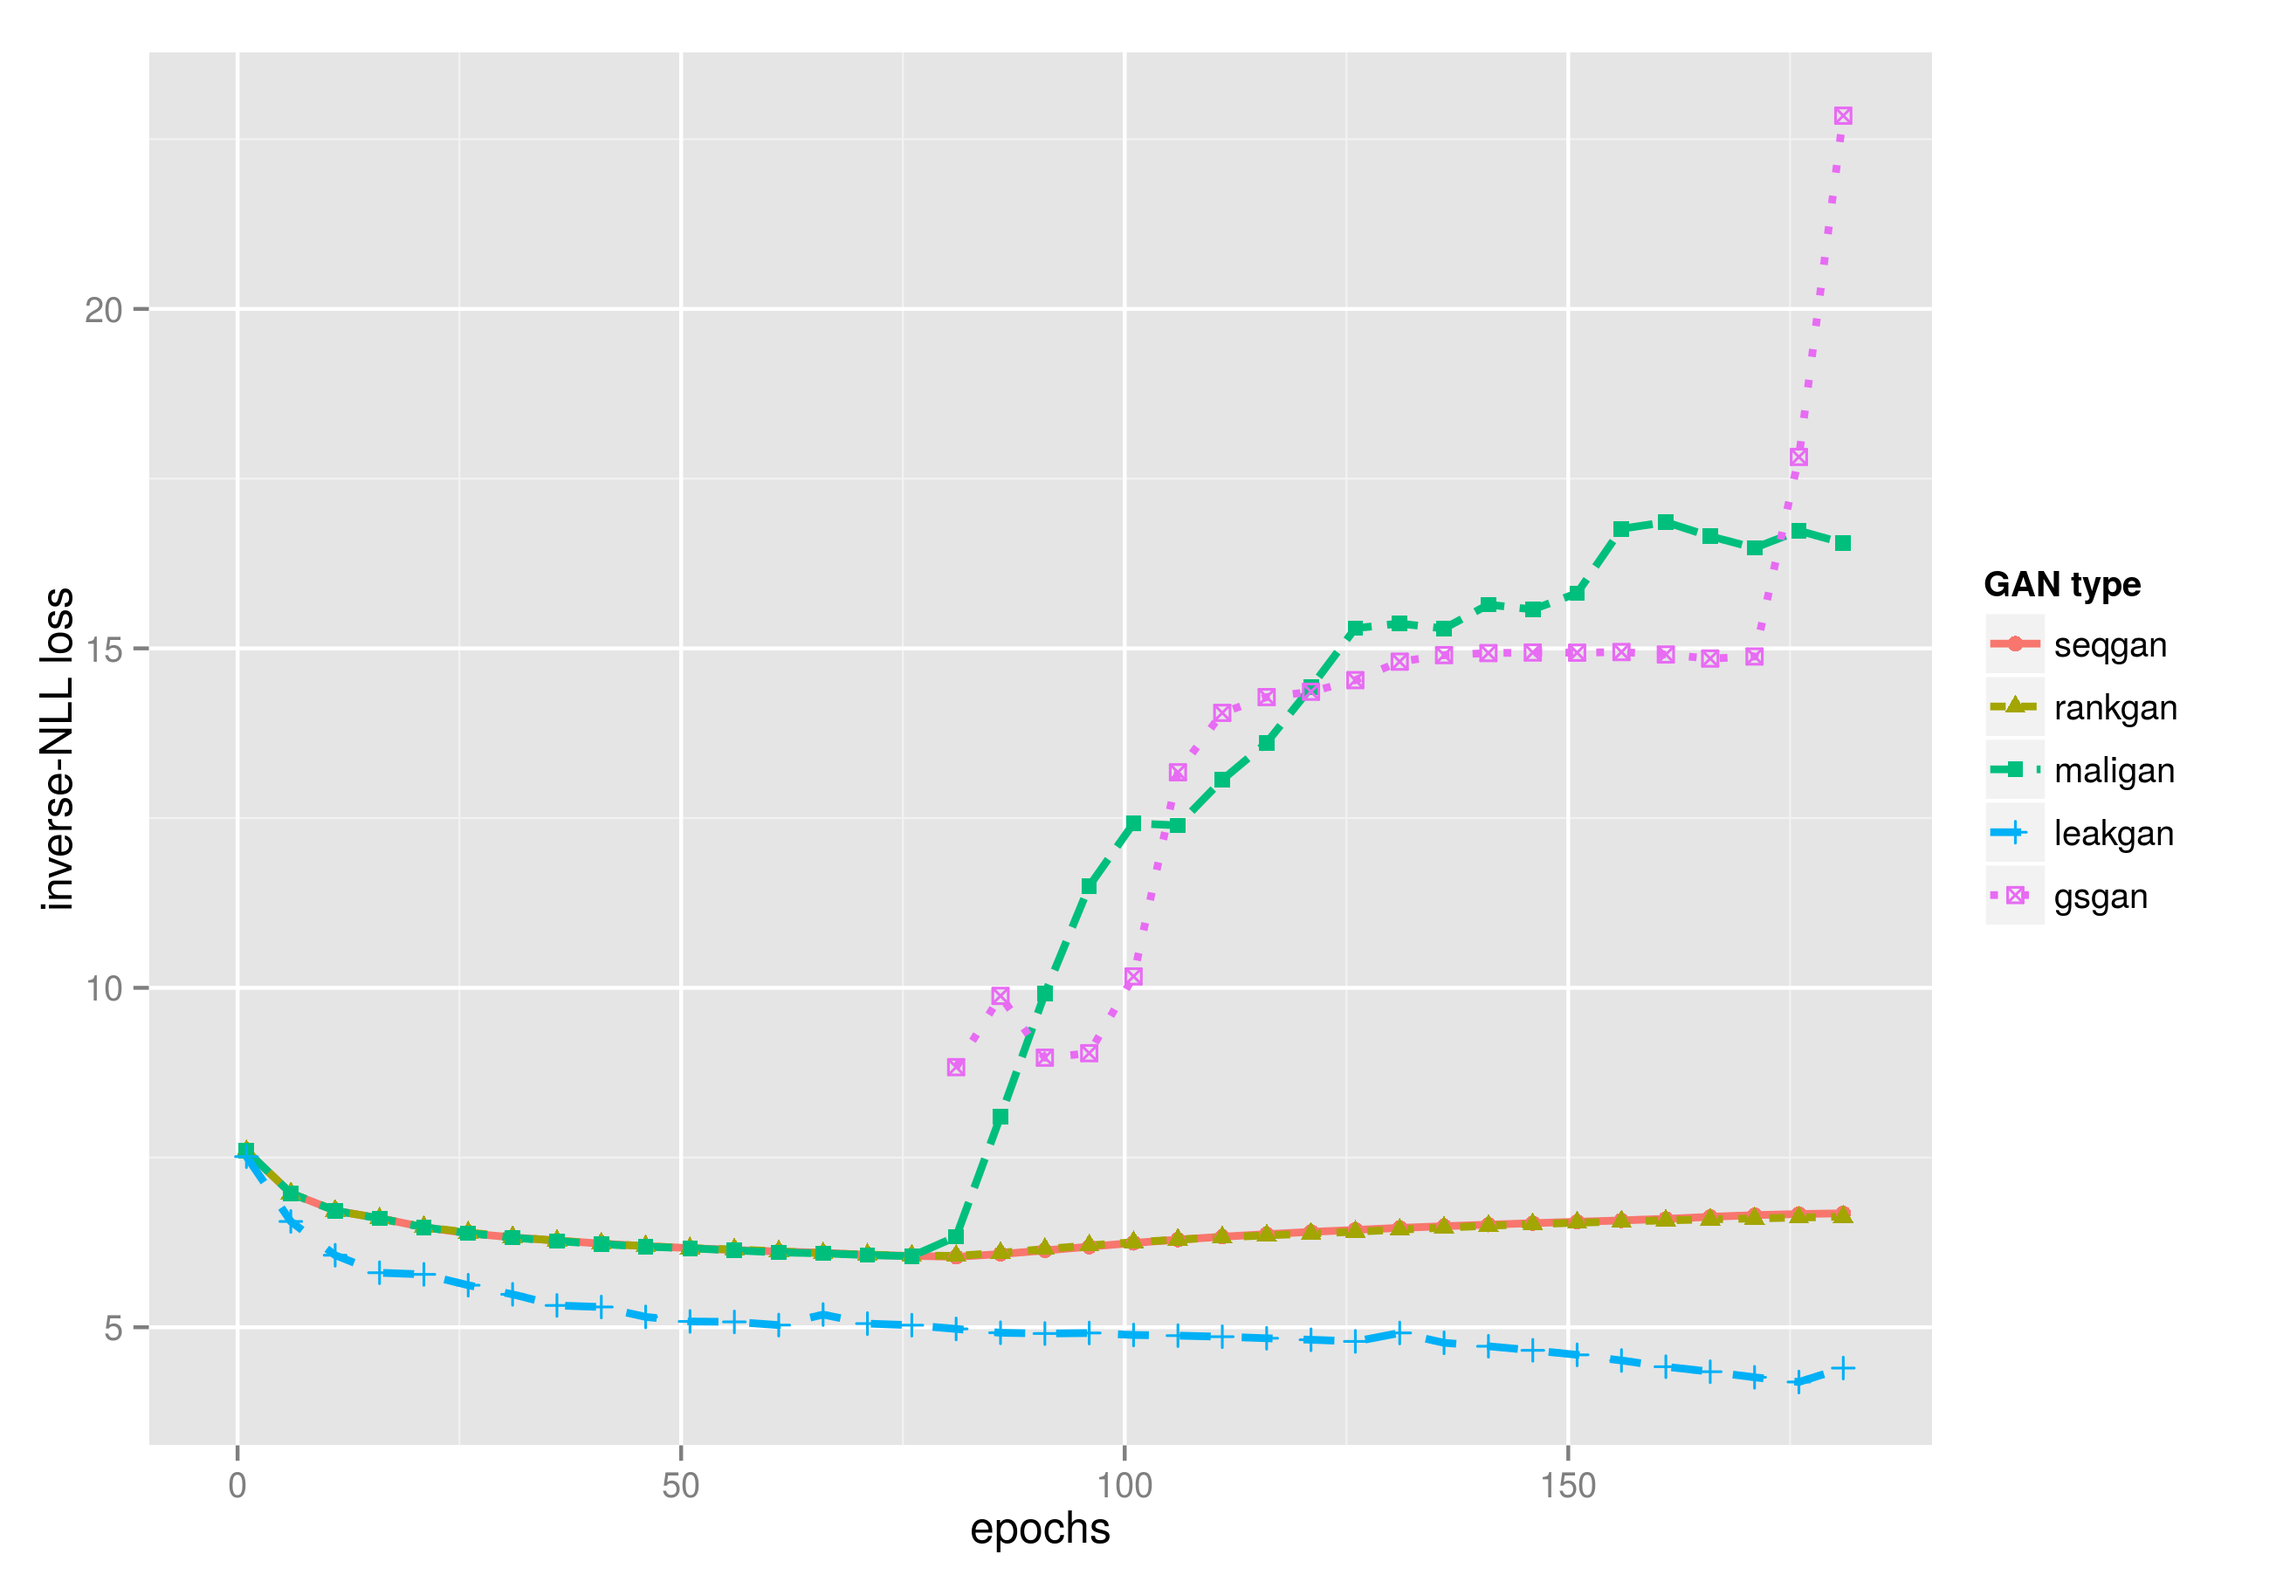
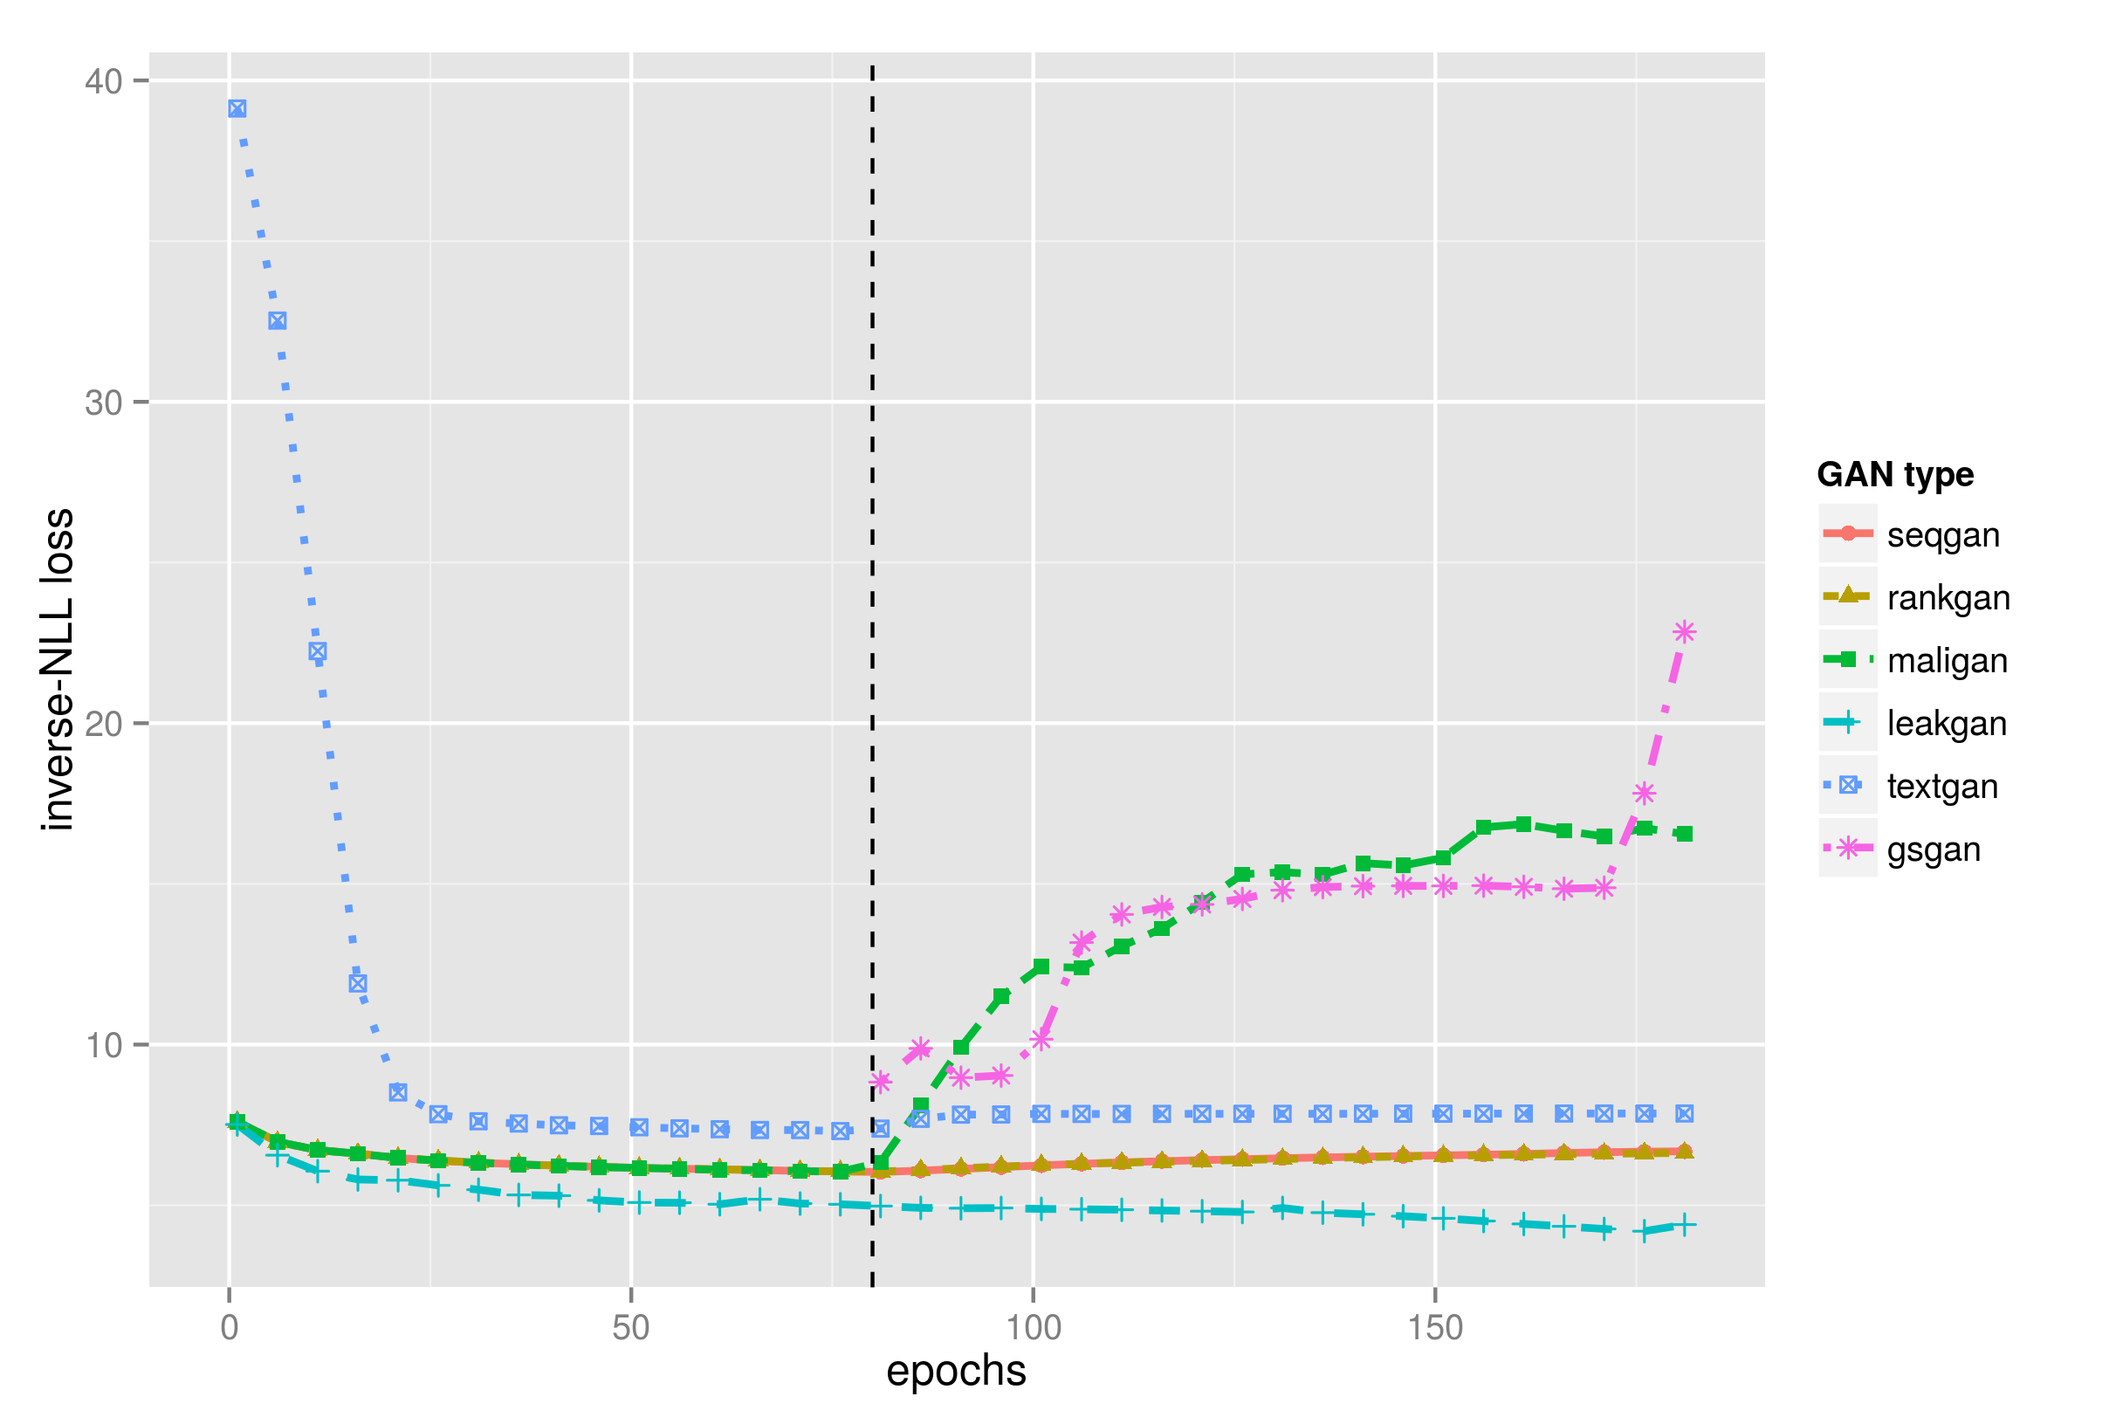
[add]    some evaluation data of textGAN [modify]    figures and documents

diff --git a/Doc/evaluation.md b/Doc/evaluation.md
@@ -5,15 +5,47 @@
 
 Paper #TODO
 
+
+
 ####NLL loss:
 
 [SeqGAN: Sequence Generative Adversarial Nets with Policy Gradient](https://arxiv.org/abs/1609.05473)
 
-We use a randomly initialized LSTM as the true model, aka, the oracle.
+We use a randomly initialized LSTM as the true model, aka, the oracle. We need to optimize average negative log-likelihood of generate data on oracle LSTM.
+
+$$\mathrm{NLL} = - \mathbb{E}_{Y_{1:T \scriptsize{\sim} G_\theta}} [ \sum_{t=1}^T \log(G_{\mathrm{oracle}}(y_t|Y_{1:t-1})) ]$$
+
+where $$G_\theta$$ denotes generator LSTM, $$G_\mathrm{oracle}$$ denotes the oracle LSTM. 
+
+####inverse-NLL loss:
+
+inverse-NLL is dual to NLL loss
+
+$$\mathrm{NLL} = - \mathbb{E}_{Y_{1:T \scriptsize{\sim} G_\mathrm{oracle}}} [ \sum_{t=1}^T \log(G_{\theta}(y_t|Y_{1:t-1})) ]$$
 
 ####BLEU score:
 
 [BLEU: a method for automatic evaluation of machine translation](https://dl.acm.org/citation.cfm?id=1073135)
+
+Also refer to its python [nltk implementation with smooth function](http://www.nltk.org/_modules/nltk/translate/bleu_score.html). 
+We use smooth function _method1_.
+
+
+####self-BLEU score:
+This is a metric we proposed in order to evaluate the mode collapse in each model.
+
+It's average BLEU score, with every generator's one instance as hypothesis, the other instances be references.
+
+#### EmbSim
+First, we evaluate word embedding on real data using a skip-gram model.
+
+The, for each word embedding, we compute its cosine distance with the other words. And then formulate it as a matrix
+
+$$W_{i,j} = \cos(e_i, e_j) $$, where $$e_i$$ be the word embedding for the ith word. We call $$W$$ be the similarity matrix. 
+
+Similarly, evaluate word embedding on generate data, and get the similarity matrix $$W'$$
+
+$$\mathrm{EmbSim} = \log(\sum_{i=1}^N \cos(W'_i, W_i)/N) $$ where $$W_i $$ is the ith column of $$W$$
 
 #### Experiment Results
 nll loss on oracle:
@@ -32,22 +64,80 @@ BLEU:
 
 on original dataset:
 
-|            | seqGAN | maliGAN | rankGAN | leakGAN |
-|------------|--------|---------|---------|---------|
-| BLEU2      | 0.917  | 0.887   | 0.937   | 0.926   |
-| BLEU3      | 0.747  | 0.697   | 0.799   | 0.816   |
-| BLEU4      | 0.530  | 0.482   | 0.601   | 0.660   |
-| BLEU5      | 0.348  | 0.312   | 0.414   | 0.470   |
+|            | seqGAN | maliGAN | rankGAN | leakGAN | textGAN  |
+|------------|--------|---------|---------|---------|----------|
+| BLEU2      | 0.917  | 0.887   | 0.937   | 0.926   | 0.650    
+| BLEU3      | 0.747  | 0.697   | 0.799   | 0.816   | 0.645
+| BLEU4      | 0.530  | 0.482   | 0.601   | 0.660   | 0.596
+| BLEU5      | 0.348  | 0.312   | 0.414   | 0.470   | 0.523
 
 on test dataset:
-// calculating...
+
+|       | seqGAN | maliGAN | rankGAN | leakGAN | textGAN      | training set |
+|-------|--------|---------|---------|---------|--------------|--------------|
+| BLEU2 | 0.745  | 0.673   | 0.743   | 0.746   | -        | 0.740        |
+| BLEU3 | 0.498  | 0.432   | 0.467   | 0.528   | -        | 0.520        |
+| BLEU4 | 0.294  | 0.257   | 0.264   | 0.355   | -        | 0.337        |
+| BLEU5 | 0.180  | 0.159   | 0.156   | 0.230   | -        | 0.218        |
+-:calculating
 
 Mode Collapse (self-BLEU):
 
 
-|            | seqGAN | maliGAN | rankGAN | leakGAN | original data |
-|------------|--------|---------|---------|---------|---------------|
-| BLEU2      | 0.950  | 0.918   | 0.959   | 0.966   | 0.892         |
-| BLEU3      | 0.840  | 0.781   | 0.882   | 0.913   | 0.747         |
-| BLEU4      | 0.670  | 0.606   | 0.762   | 0.848   | 0.573         |
-| BLEU5      | 0.489  | 0.437   | 0.618   | 0.780   | 0.415         |
+|            | seqGAN | maliGAN | rankGAN | leakGAN | textGAN       | training set  |
+|------------|--------|---------|---------|---------|---------------|---------------|
+| BLEU2      | 0.950  | 0.918   | 0.959   | 0.966   | 0.942         |0.892         |
+| BLEU3      | 0.840  | 0.781   | 0.882   | 0.913   | 0.931         |0.747         |
+| BLEU4      | 0.670  | 0.606   | 0.762   | 0.848   | 0.804         |0.573         |
+| BLEU5      | 0.489  | 0.437   | 0.618   | 0.780   | 0.746         |0.415         |
+
+Instances on image coco:
+seqGAN:
+```text
+a very tall pointy across the street 
+a bowl full of various cooking in to black kitchen 
+a parked car with a woman hanging over a motorcycle . 
+a bowl full monitor with a monitor next to a couple is painted painted in it . 
+this with an image of a white toilet 
+an image of a motorcycle decorated with tall trees 
+```
+
+maliGAN:
+```text
+a parked motorcycle driving on a side of a beach . 
+a picture of a blurry photo of shops air with benches in american spectators off . 
+a toilet is on a very parked at an entirely new fashion . 
+several delta skiers in shower in front of a traffic road next to the ocean . 
+a beautiful kitchen in white kitchen counter sitting next on a park . 
+a man in a butcher kitchen tying picture . 
+```
+
+rankGAN:
+```text
+a nice bathroom with a bathroom sink and a small toilet . 
+a bathroom with a pink toilet and a sink and a wall . 
+a yellow bike parked by a window next to a woman holding a great underneath a book . 
+a large island where some various utensils and green walls and a pink seat . 
+a small child is riding a green quadruple cows around . 
+man on white and white umbrella together is down . 
+```
+
+leakGAN:
+```text
+a bathroom with a mirrors reflection on far up into a tray and cup a banana to it 's back on it . 
+a kitchen with white porcelain toilet , open and a glass of wine 
+a bathroom with a glass shower , sink and scale . 
+a man tinkers with his ear . 
+a cat laying on a tub near the wall . 
+two people are preparing food from a bar with a red fire wallpaper . 
+```
+
+textGAN:
+```text
+is in a bathroom with a sink controls . 
+a motorcycle . 
+of a bathroom with a sink . 
+is in a bathroom with a toilet and a sink . 
+a motorcycle . 
+is is flying very of a bathroom with a bathroom . 
+```
